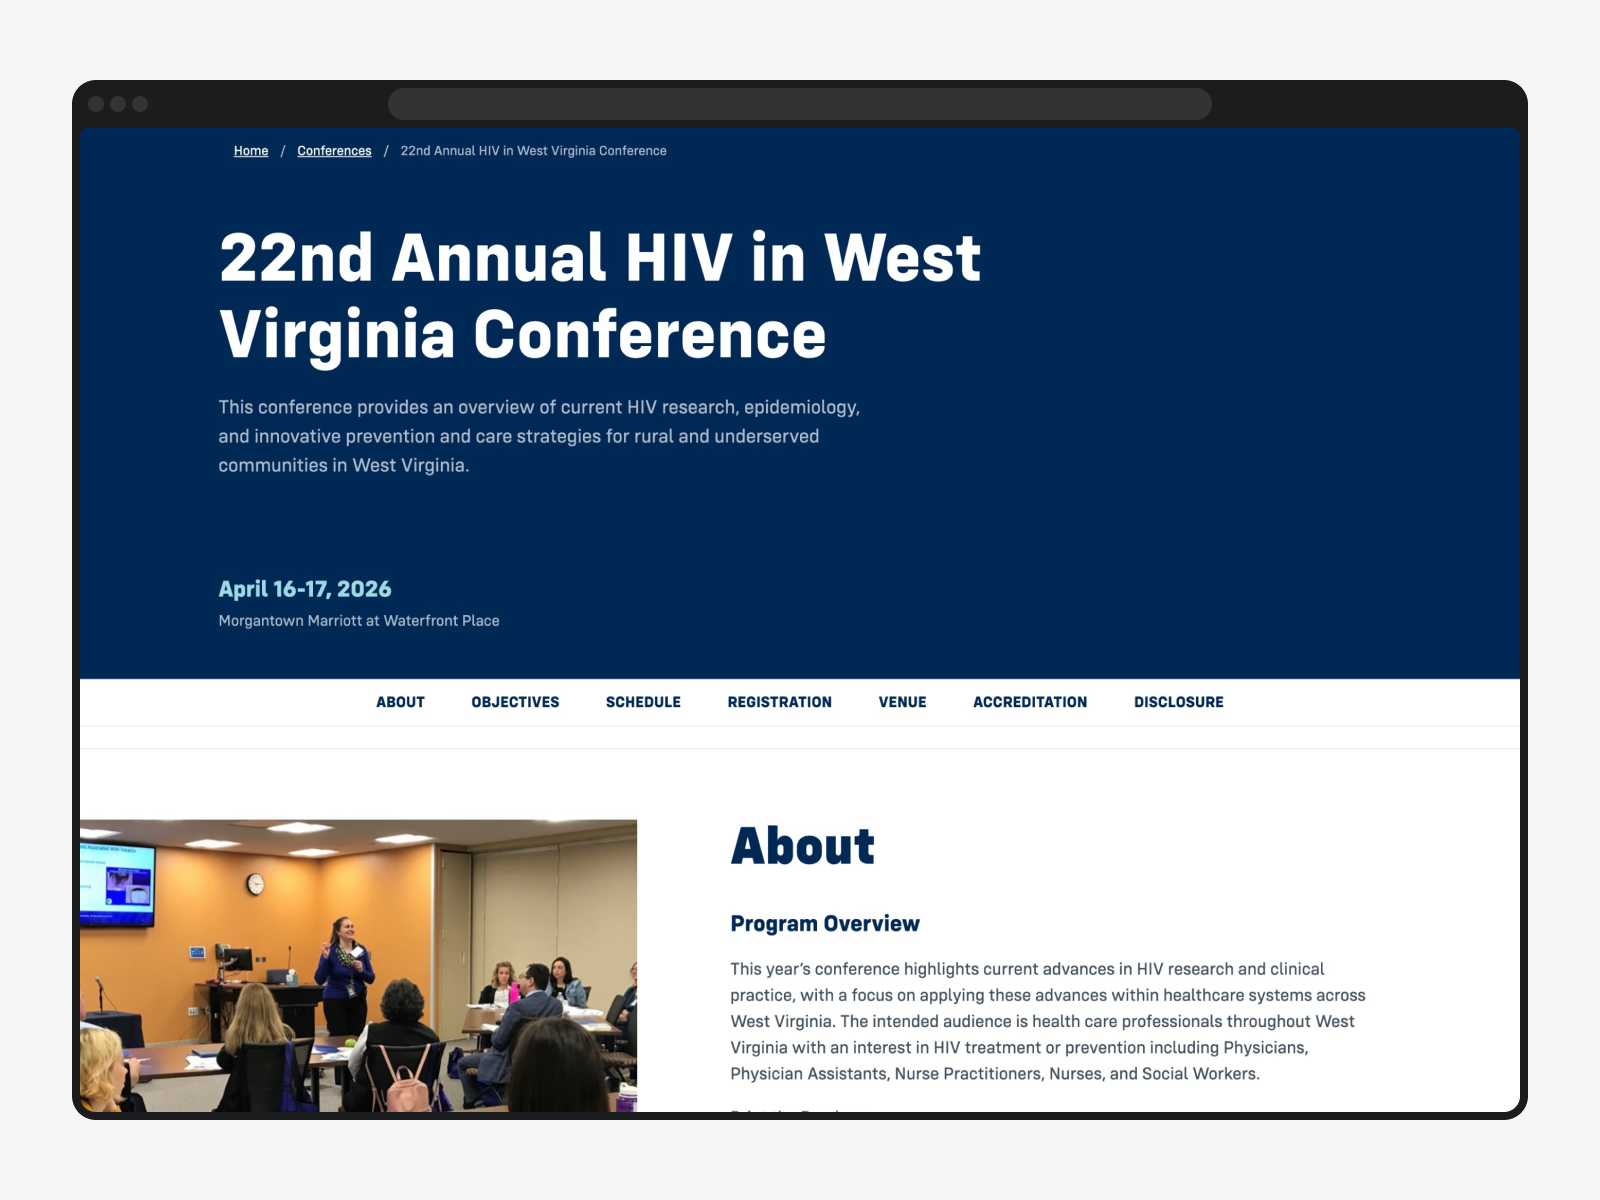
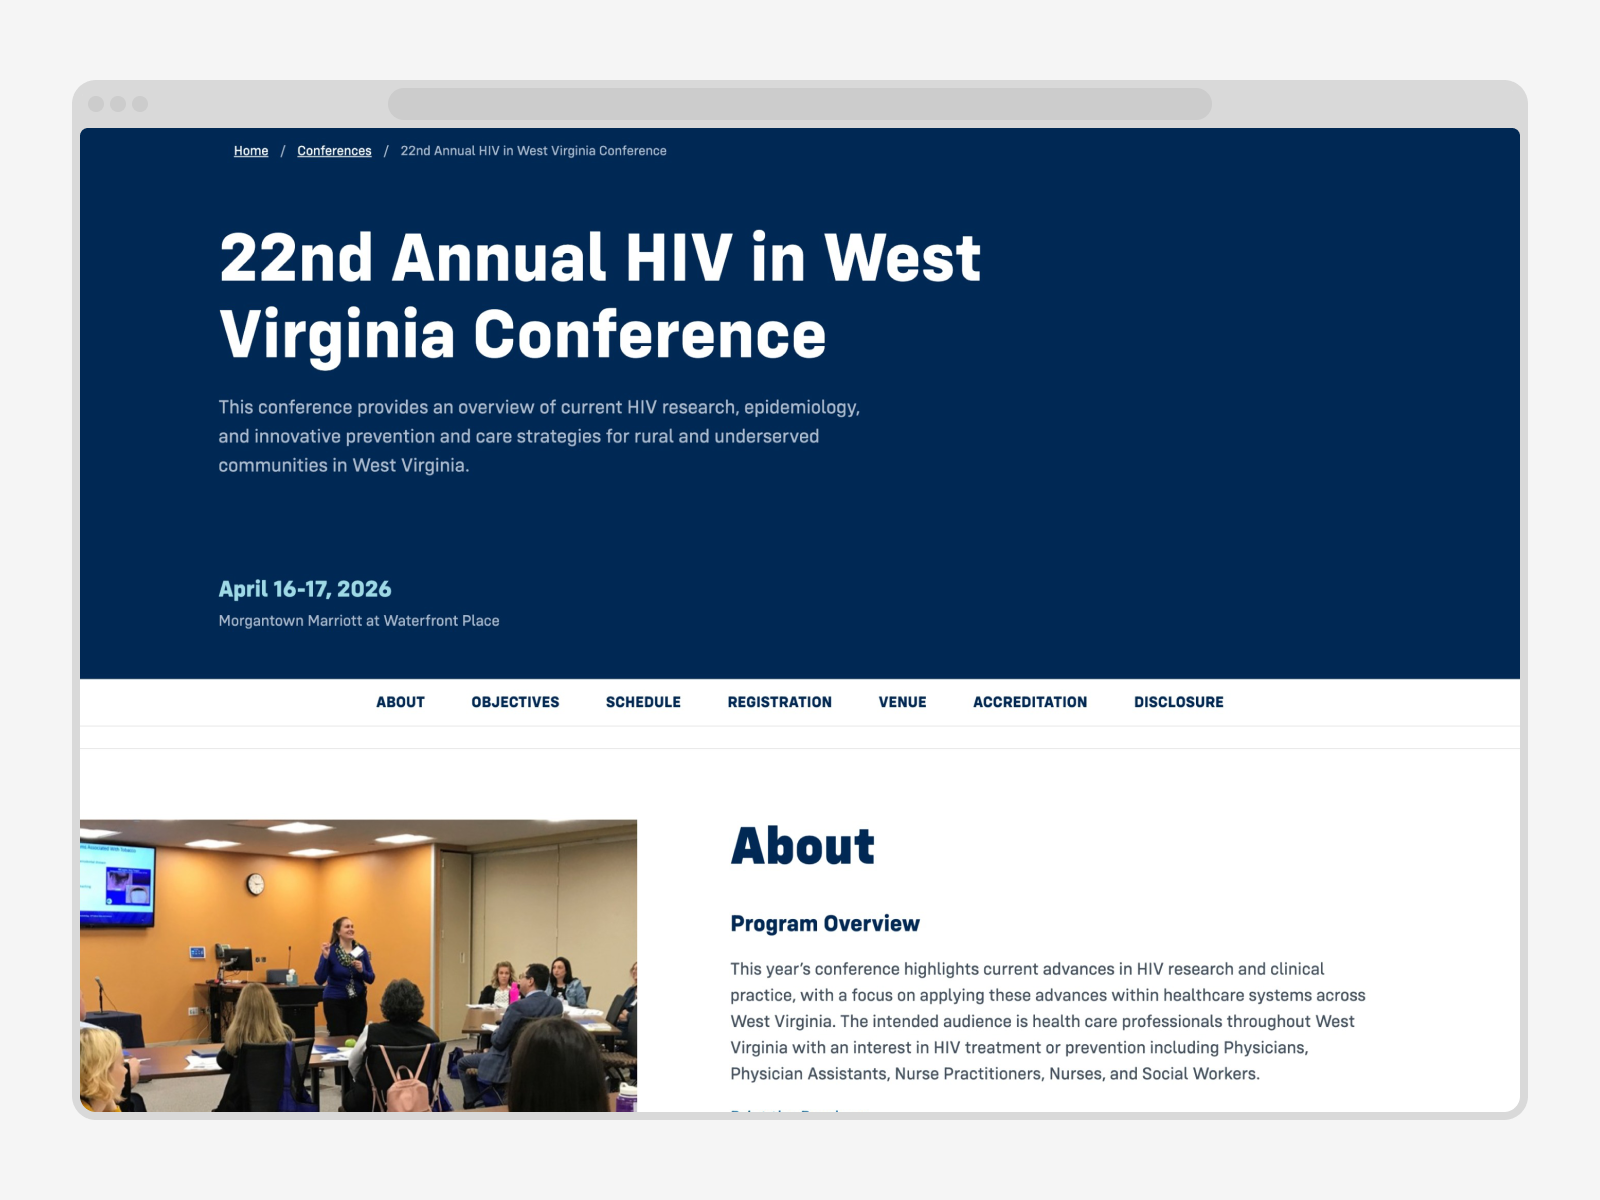
Adjusting the screenshots in the WVU Health Events post

Changed region(s): [[0.0312, 0.0617, 0.9688, 0.925], [0.0625, 0.925, 0.9375, 0.9558]]

diff --git a/assets/css/style.css b/assets/css/style.css
@@ -542,6 +542,10 @@ nav {
         grid-column: full;
     }
 
+    & + & {
+        margin-block-start: 1.5rem;
+    }
+
     h1 + & {
         margin-block-start: 0;
     }
@@ -549,6 +553,7 @@ nav {
     img, video {
         width: 100%; 
         height: auto;
+        /* border: 1px solid var(--de-border-color); */
     }
 
     figcaption {

diff --git a/_posts/2026-02-22-wvu-health-events.md b/_posts/2026-02-22-wvu-health-events.md
@@ -35,3 +35,5 @@ Stay tuned for more shots!
 {% figure image="wvu-health-events/wvu-health-events--mobile.png" caption="" breakout="true" %}
 
 {% figure image="wvu-health-events/wvu-health-event--desktop.png" caption="" breakout="true" %}
+
+{% figure image="wvu-health-events/wvu-health-event-registration.png" caption="" breakout="true" %}
